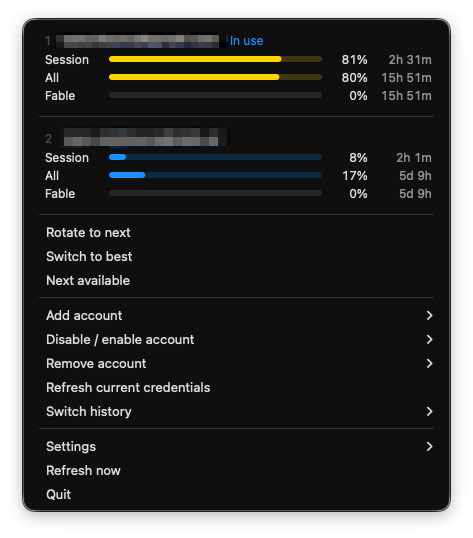
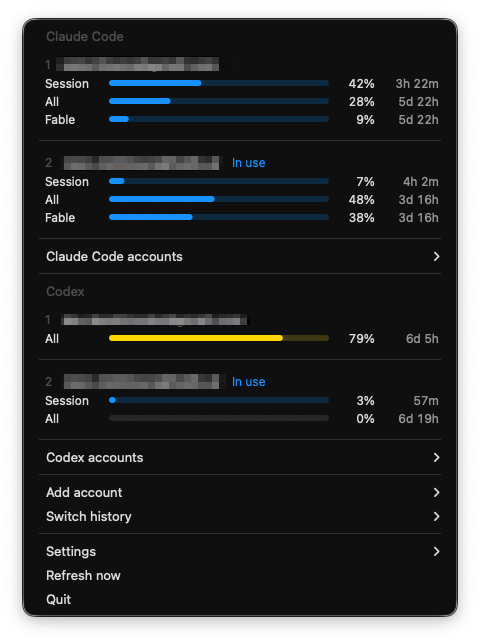
README とスクリーンショットを Codex 対応後の姿に合わせる (#54)
メニューバーとウィジェットの画像を Claude Code と Codex が並ぶものに差し替え、README のメニュー構成、ウィジェットの列の上限、CLI の claude サブコマンドと --json の対象を今の実装に合わせた。

diff --git a/README.md b/README.md
@@ -1,12 +1,14 @@
 # ccswap
 
-A multi-account switcher for Claude Code on macOS. It is a Rust rewrite of [claude-swap](https://github.com/realiti4/claude-swap) v0.26.0, and adds a menu bar app and a desktop widget that show every account's usage and switch between them.
+A multi-account switcher for Claude Code and Codex CLI on macOS. It is a Rust rewrite of [claude-swap](https://github.com/realiti4/claude-swap) v0.26.0, and adds Codex accounts, a menu bar app and a desktop widget that show every account's usage and switch between them.
 
 ## Menu bar
 
-<img src="docs/images/menubar.png" alt="The ccswap menu bar, showing Session, All and Fable usage bars with reset times for each account" width="400">
+<img src="docs/images/menubar.png" alt="The ccswap menu bar, listing Claude Code and Codex accounts with usage bars and reset times for each" width="400">
 
-For each account, the menu shows how much of the 5-hour session, the all-models weekly limit and the per-model weekly limits (such as Fable) is used, and when each one resets. The active account is marked `In use`. From the menu you can rotate to the next account (`Rotate to next`), jump to the account with the most quota left (`Switch to best`), or rotate while skipping accounts at their limit (`Next available`). You can also add, disable and remove accounts and browse the switch history.
+The menu has a section for Claude Code and a section for Codex; a section is hidden when it has no accounts. For each account, the menu shows how much of the 5-hour session, the all-models weekly limit and, for Claude Code, the per-model weekly limits (such as Fable) is used, and when each one resets. The active account in each section is marked `In use`, and clicking another account switches to it.
+
+Each section ends with a submenu of its actions. `Claude Code accounts` can rotate to the next account (`Rotate to next`), jump to the account with the most quota left (`Switch to best`), rotate while skipping accounts at their limit (`Next available`), and add, disable and remove accounts. `Codex accounts` can rotate to the next account, log in to a new account and add or remove accounts. `Add account` collects the add actions of both, and `Switch history` lists past switches.
 
 ```sh
 ccswap menubar --install-service   # start at login and restart on crash via launchd
@@ -15,9 +17,9 @@ ccswap menubar --service-status
 
 ## Desktop widget
 
-<img src="docs/images/widget.png" alt="The ccswap desktop widget, showing two accounts' usage side by side with a Switch button on the inactive one" width="600">
+<img src="docs/images/widget.png" alt="The ccswap desktop widget, showing Claude Code and Codex accounts side by side with a Switch button on the inactive ones" width="600">
 
-The widget lays out every account's usage side by side. Pressing `Switch` on an inactive account makes the running menu bar switch to it. The widget ships inside `ccswap.app`; register it to make it appear in the widget gallery:
+The widget lays out accounts' usage side by side, Claude Code accounts first and Codex accounts labeled `Codex`, with the active account of each leading. It shows up to four Claude Code accounts, or five columns in all once Codex accounts are managed, keeping at least two for Codex. Pressing `Switch` on an inactive account makes the running menu bar switch to it. The widget ships inside `ccswap.app`; register it to make it appear in the widget gallery:
 
 ```sh
 ccswap widget --install
@@ -39,20 +41,22 @@ To build from source, `just install` builds a universal `ccswap.app` and runs th
 
 ## CLI
 
+Claude Code accounts are managed with `ccswap claude <command>`. Every `claude` command also works without the prefix (`ccswap list`, `ccswap switch 2`).
+
 ```sh
-ccswap add                          # register the account you are logged in as
-ccswap list                         # list managed accounts and their usage
-ccswap switch                       # rotate to the next account
-ccswap switch 2                     # switch to an account by number or email
-ccswap switch --strategy best       # switch to the account with the most quota left
-ccswap run 2 -- --resume            # run claude as another account, this terminal only
-ccswap map 2 ~/work                 # map a directory to an account
-ccswap auto                         # auto-switch when nearing rate limits
+ccswap claude add                   # register the account you are logged in as
+ccswap claude list                  # list managed accounts and their usage
+ccswap claude switch                # rotate to the next account
+ccswap claude switch 2              # switch to an account by number, alias or email
+ccswap claude switch --strategy best  # switch to the account with the most quota left
+ccswap claude run 2 -- --resume     # run claude as another account, this terminal only
+ccswap claude map 2 ~/work          # map a directory to an account
+ccswap claude auto                  # auto-switch when nearing rate limits
 ccswap config set autoswitch.threshold 80
 ccswap                              # interactive TUI dashboard
 ```
 
-`ccswap help` lists every command, and `ccswap <command> --help` shows its options. `list`, `status` and `switch` emit machine-readable JSON with `--json`.
+`ccswap help` lists every command, and `ccswap <command> --help` shows its options. `claude list`, `claude status`, `claude switch`, `codex list` and `codex switch` emit machine-readable JSON with `--json`.
 
 ## Codex
 
